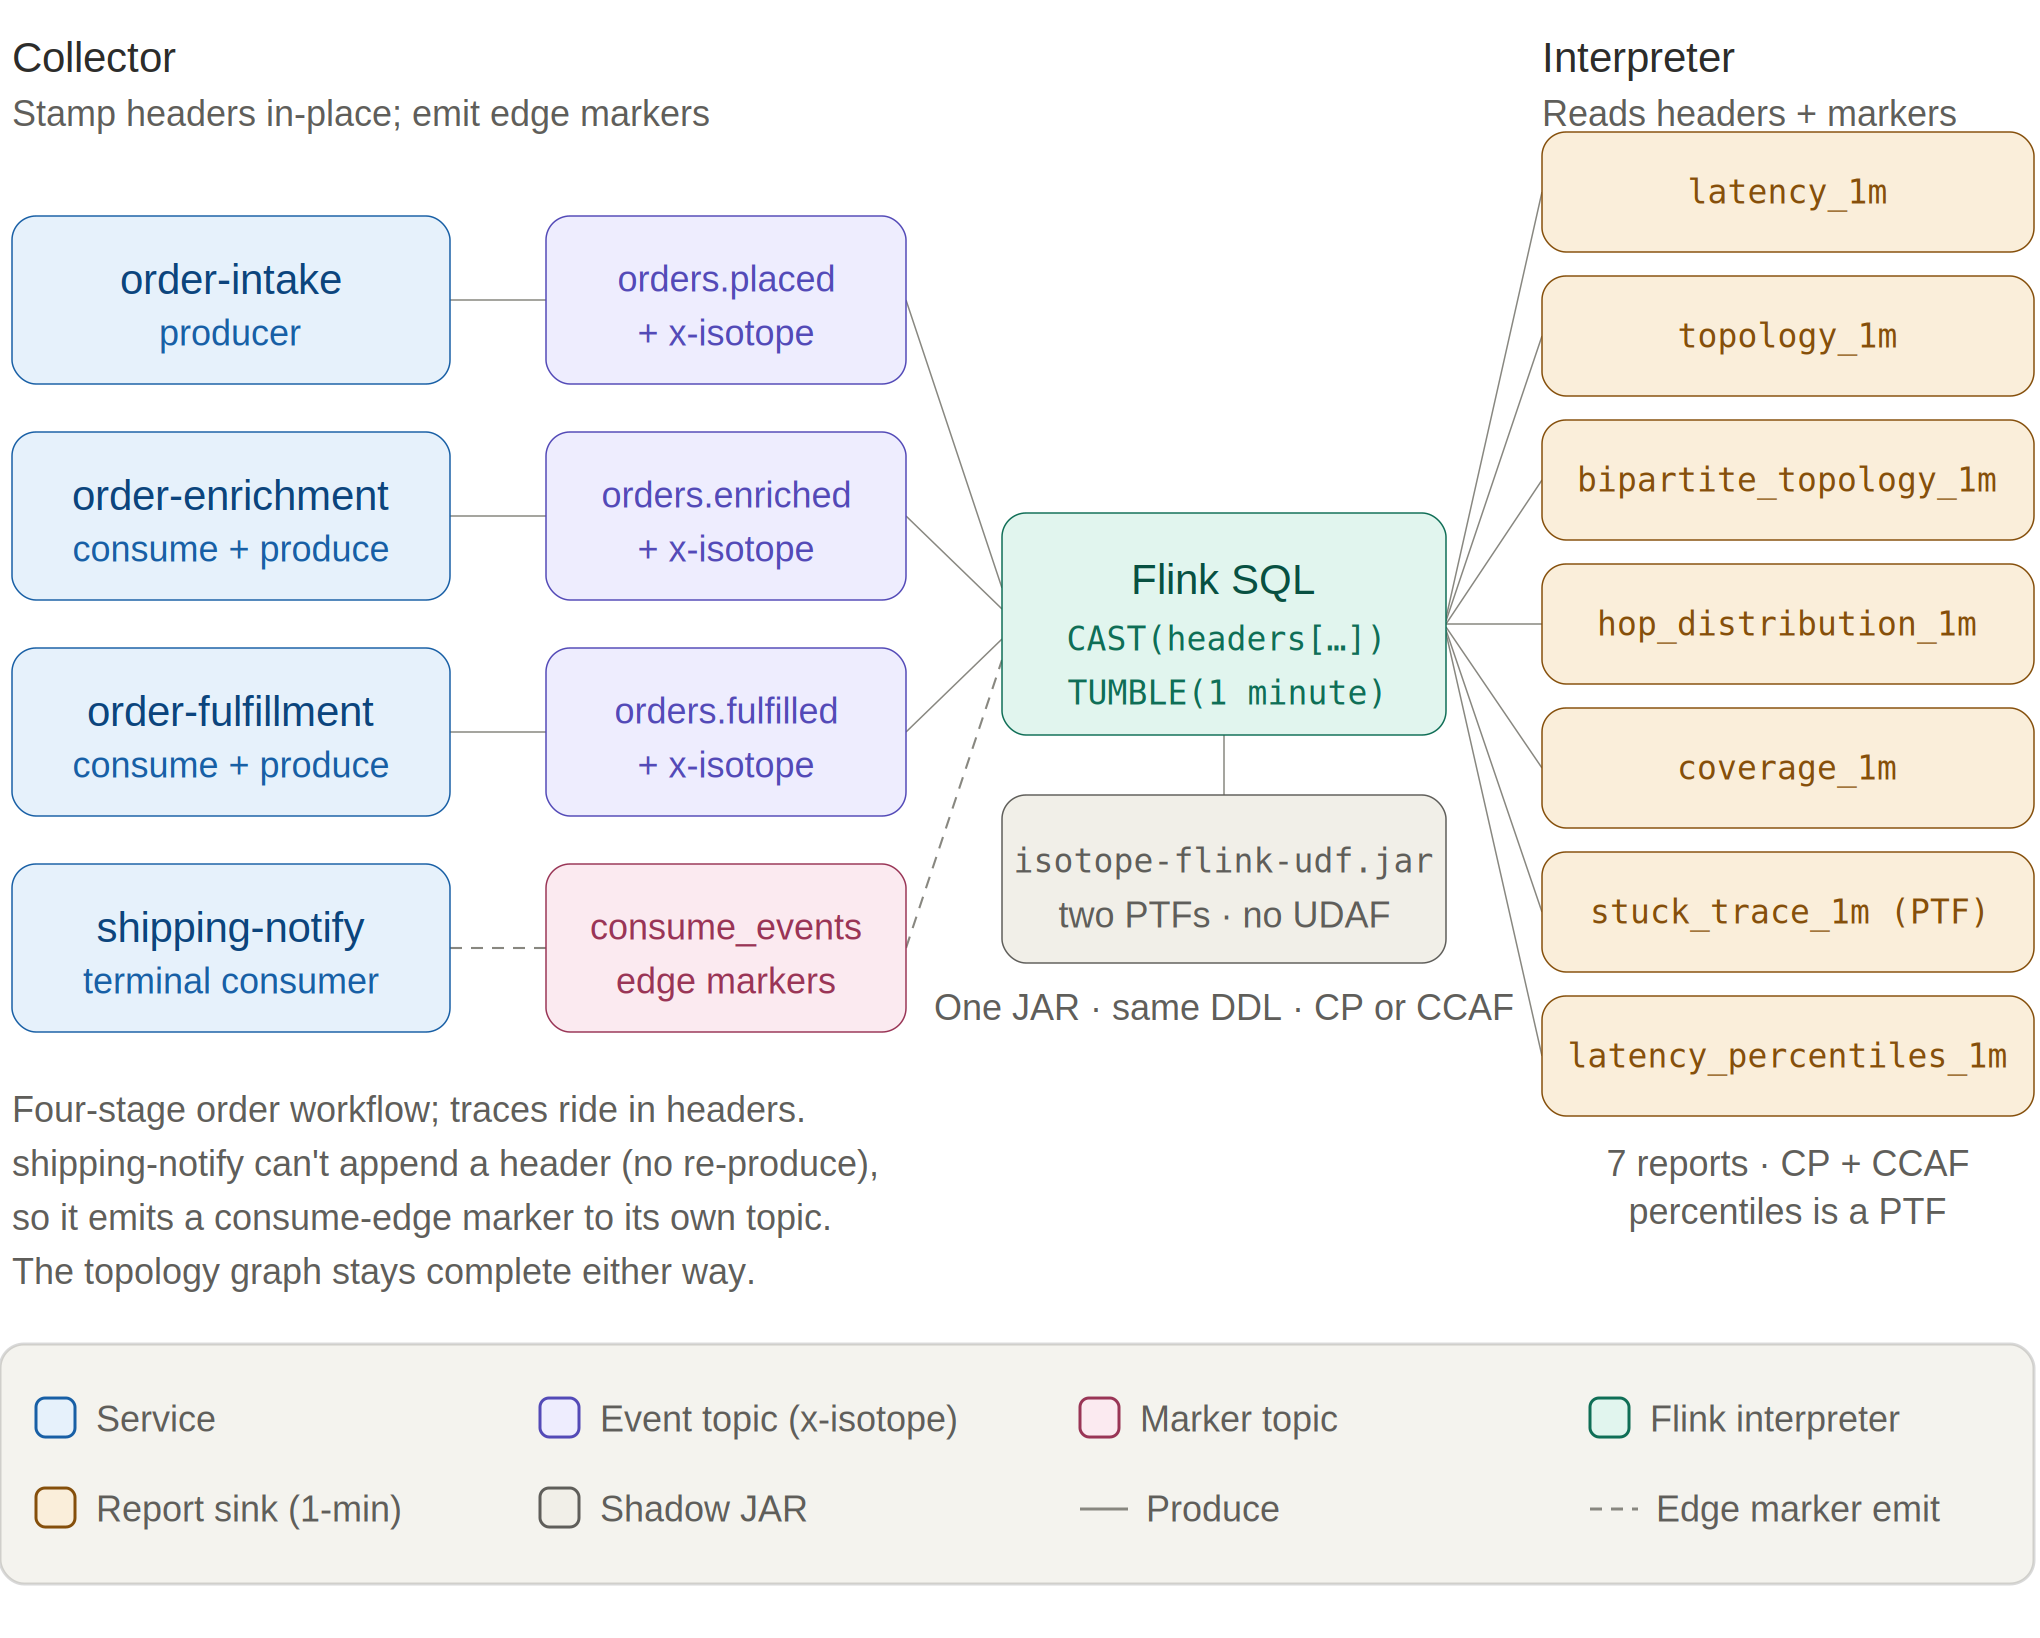
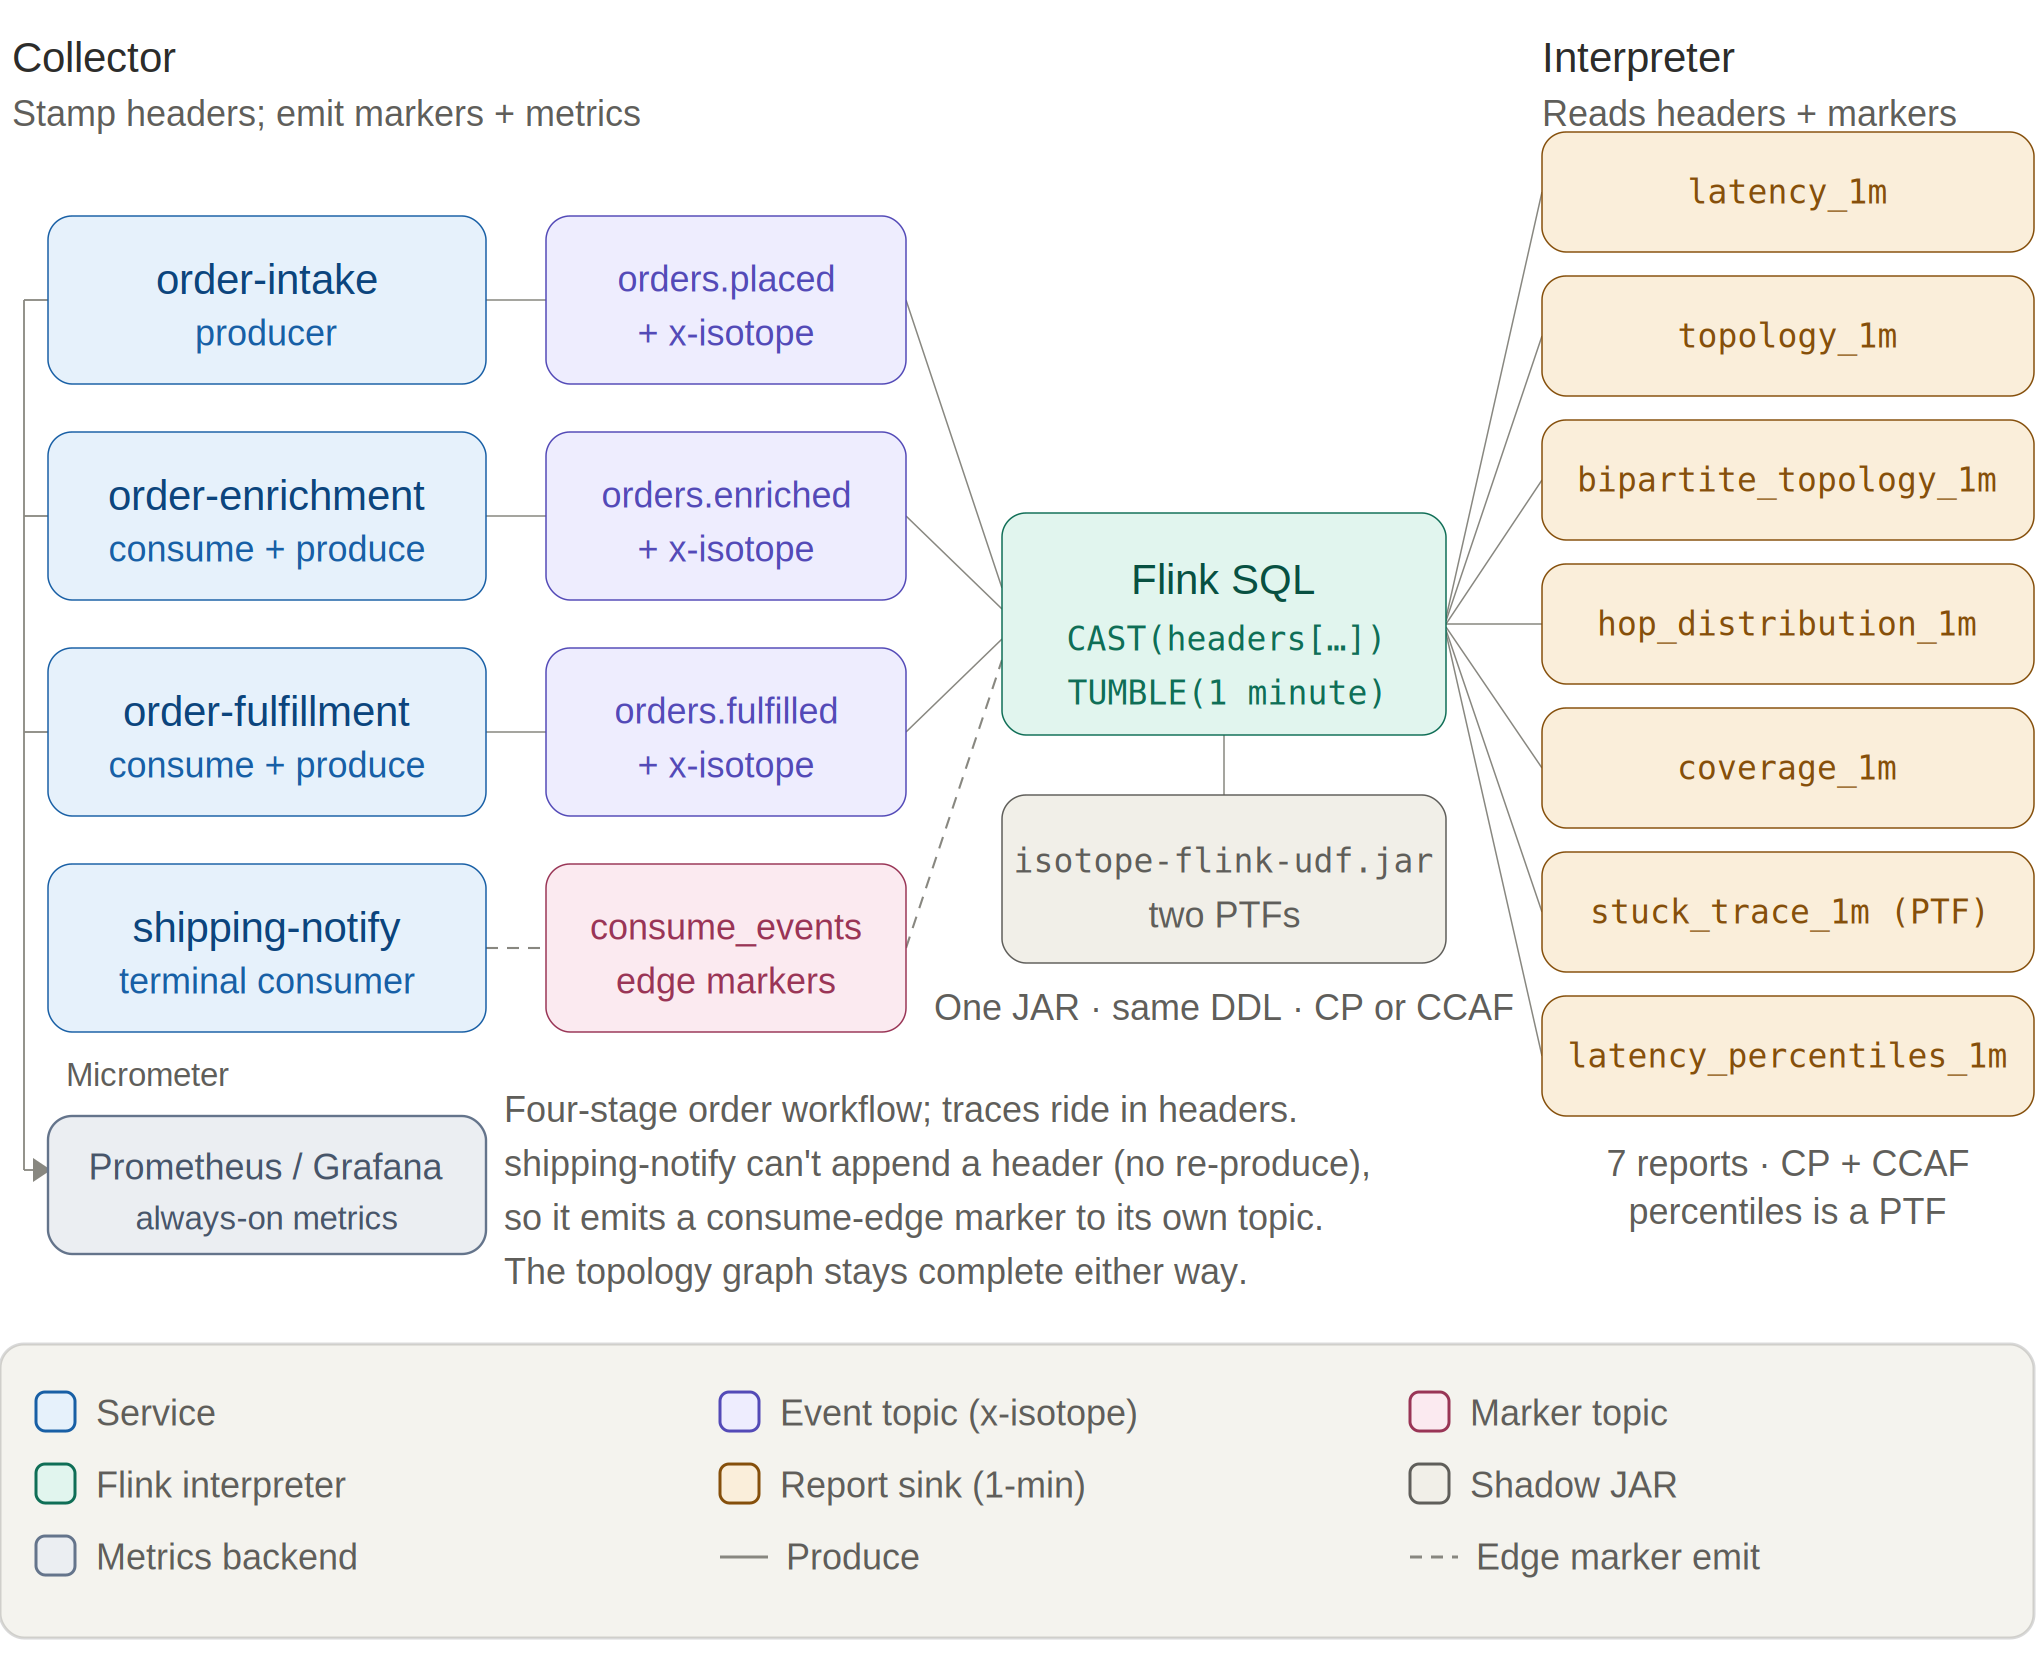
Resolved #88.

diff --git a/CHANGELOG.md b/CHANGELOG.md
@@ -4,6 +4,10 @@ All notable changes to this project will be documented in this file.
 The format is base on [Keep a Changelog](https://keepachangelog.com/en/1.1.0/), and this project adheres to [Semantic Versioning](https://semver.org/spec/v2.0.0.html).
 
 
+## [0.11.00.000] - 2026-06-06
+### Changed
+- Issues[`#88`](https://github.com/j3-signalroom/confluent-kafka-isotope/issues/88)
+
 ## [0.10.00.000] - 2026-06-06
 ### Added
 - Issues[`#84`](https://github.com/j3-signalroom/confluent-kafka-isotope/issues/84)